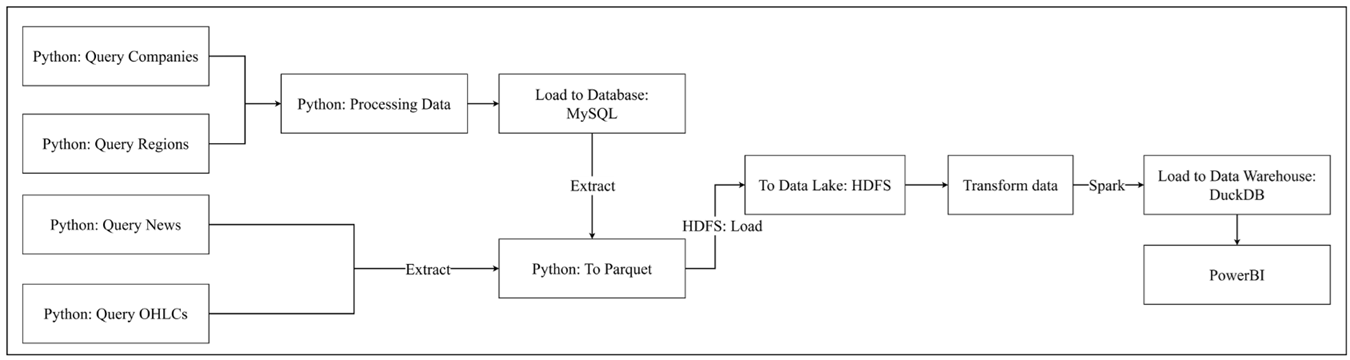
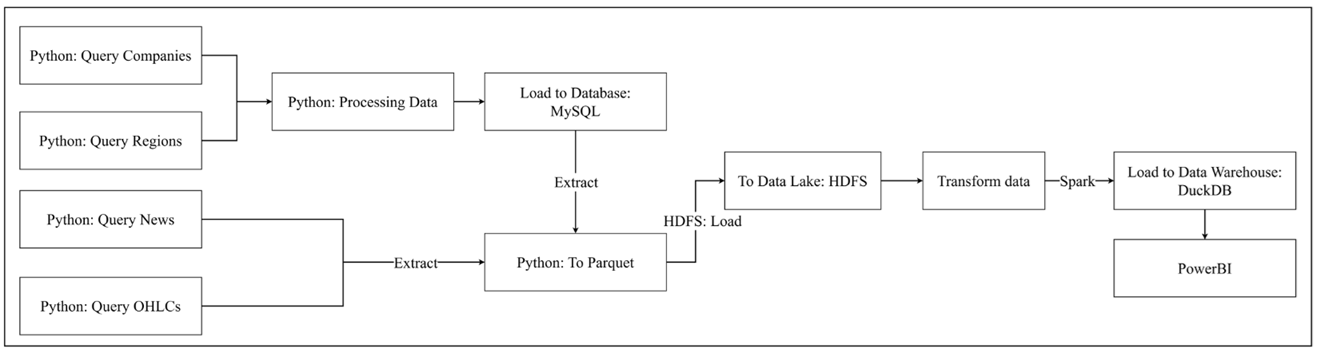
cje

diff --git a/README.md b/README.md
@@ -29,7 +29,7 @@ A pipeline that automatically collects, stores, and processes stock market data 
 ### Flow:
 
 <p align="center">
-  <img src="assets/flow.png" alt="flow" width="750">
+  <img src="assets/flow.png" alt="flow" width="800">
 </p>
 
 ---